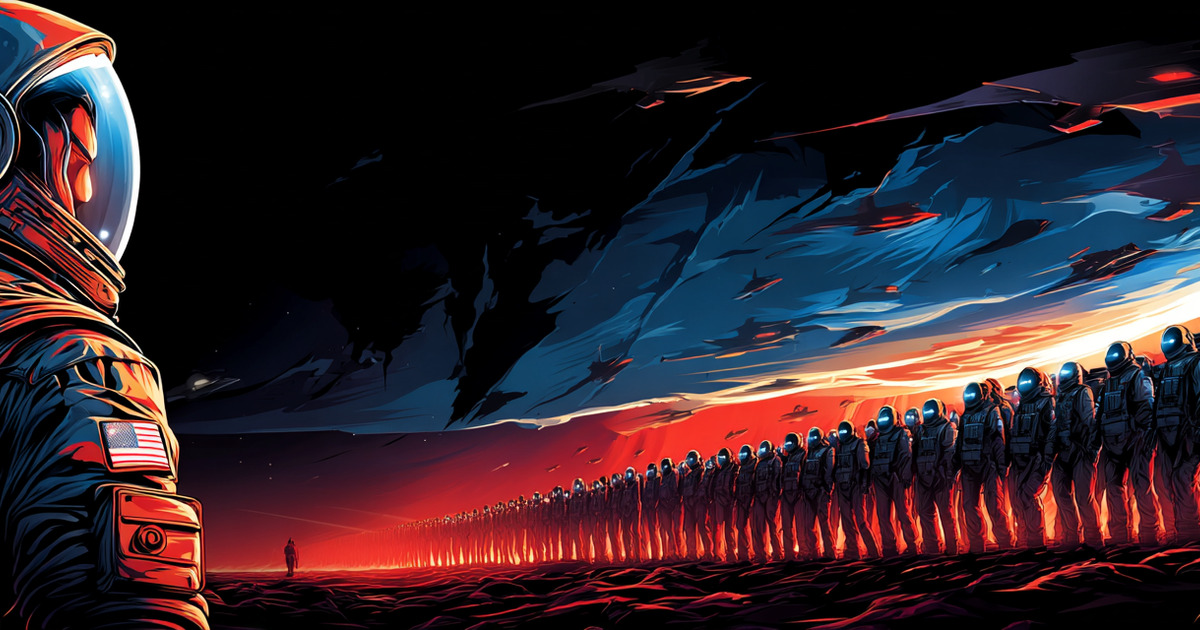
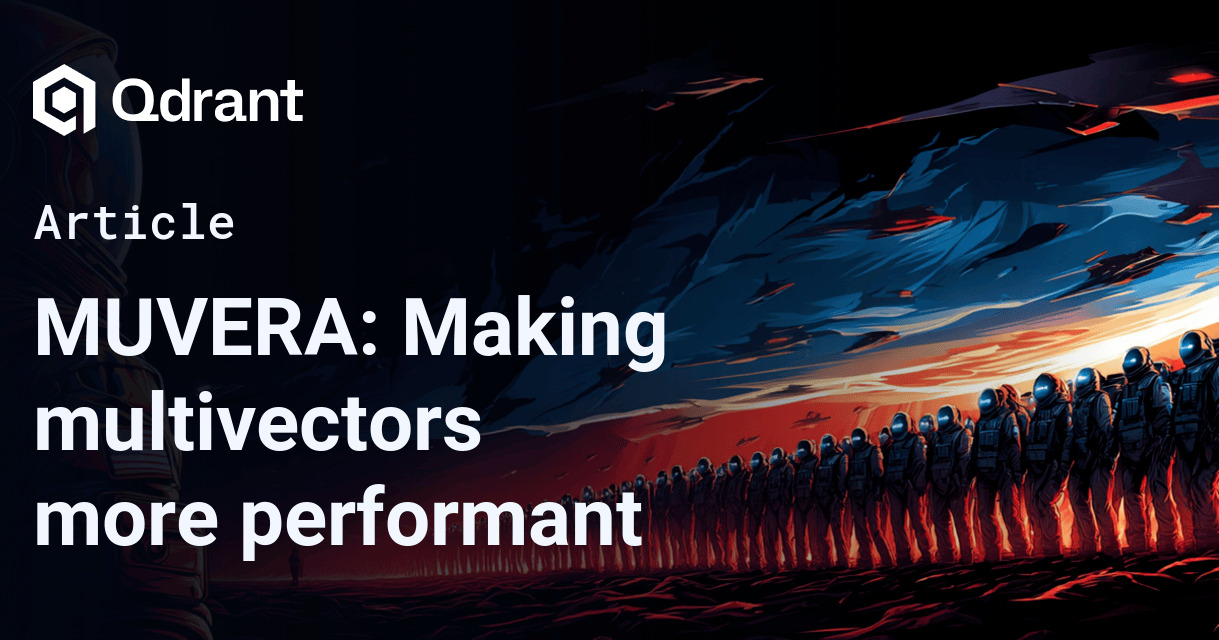
Revise titles

diff --git a/qdrant-landing/content/articles/muvera-embeddings.md b/qdrant-landing/content/articles/muvera-embeddings.md
@@ -1,5 +1,5 @@
 ---
-title: "MUVERA Embeddings"
+title: "MUVERA: Making multivectors more performant"
 short_description: "Making multi-vector retrieval more efficient by approximating it with single-vector search"
 description: "Multi-vector representations are superior to single-vector embeddings in many benchmarks. MUVERA embeddings aim to solve the problem of slow multi-vector search by creating a single-vector representation that approximates the multi-vector representation. This single vector can be used for fast initial retrieval using traditional vector search methods, and then the multi-vector representation can be used for reranking the top results."
 preview_dir: /articles_data/muvera-embeddings/preview
@@ -9,6 +9,8 @@ author_link: https://kacperlukawski.com
 date: 2025-08-27T00:00:00.000Z
 category: vector-search-manuals
 ---
+
+## What are MUVERA Embeddings?
 
 Multi-vector representations are superior to single-vector embeddings in many benchmarks. It might be tempting to use 
 them right away, but there is a catch: they are slower to search. Traditional vector search structures like 
@@ -192,6 +194,8 @@ muvera = Muvera.from_multivector_model(
 embeddings = np.array(list(model.embed(["sample text"])))
 fde = muvera.process_document(embeddings[0])
 ```
+
+## Try it out today
 
 If you're already using multi-vector retrieval, upgrading to FastEmbed 0.7.2+ will unlock MUVERA's 7x speed improvements 
 while maintaining nearly identical search quality. And if you've always wanted to experiment with multi-vector retrieval 
